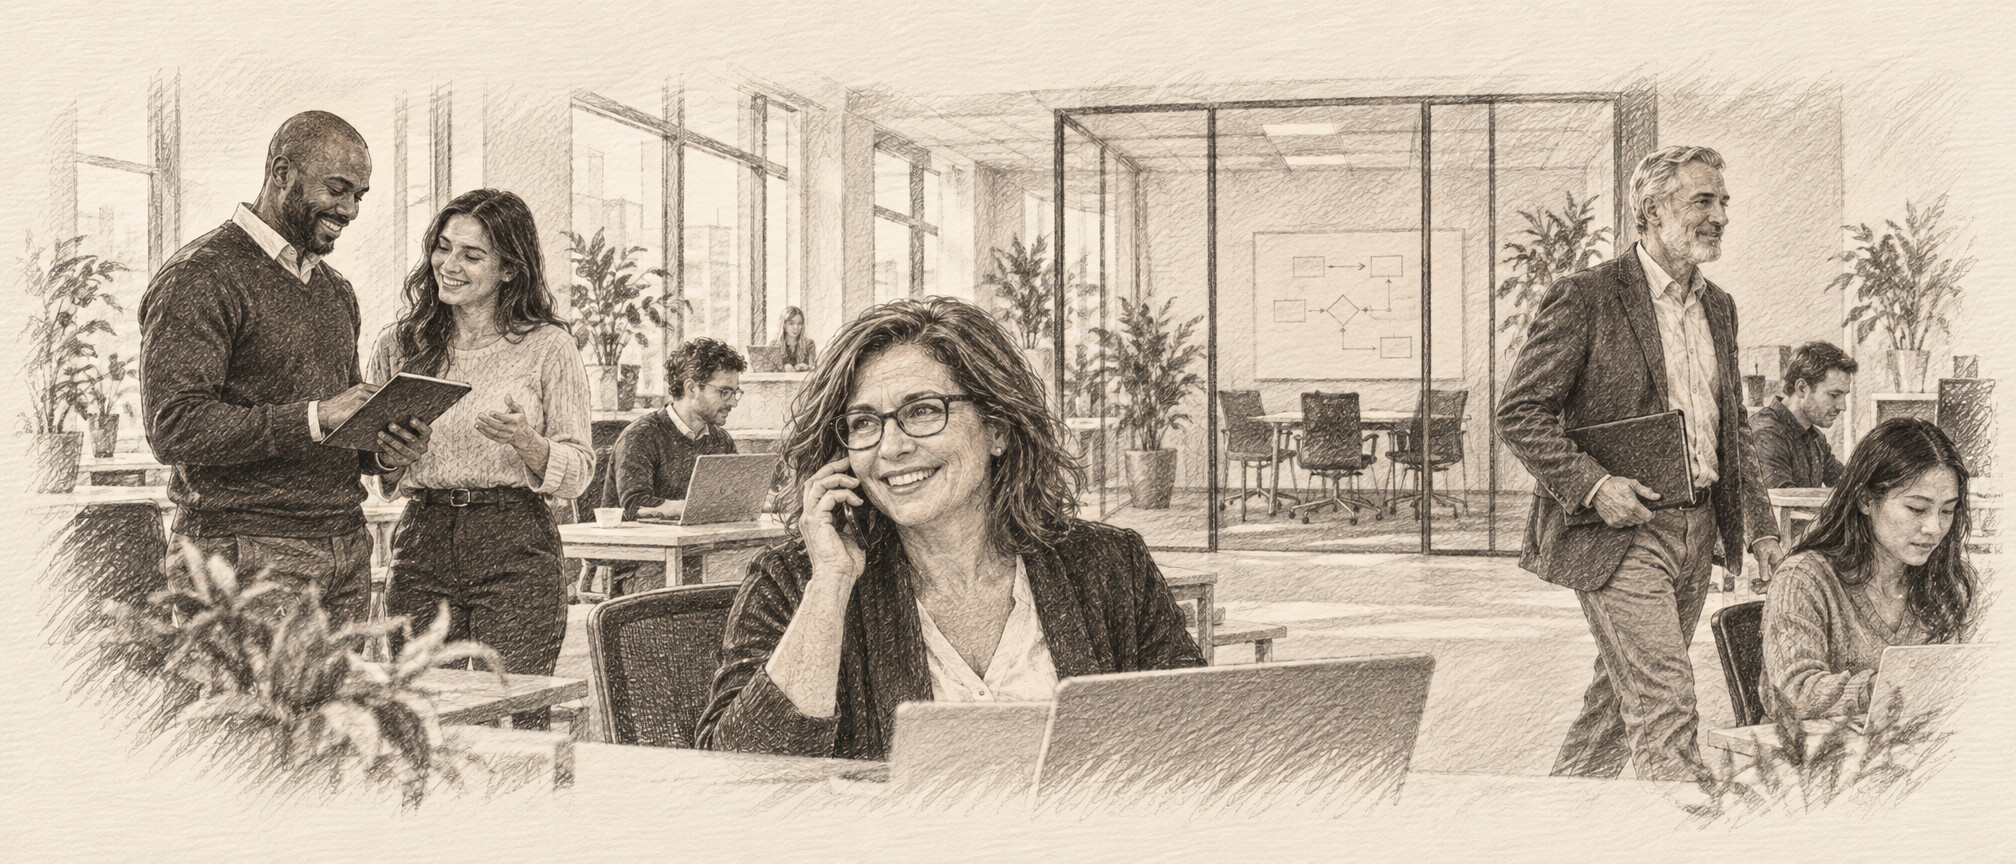
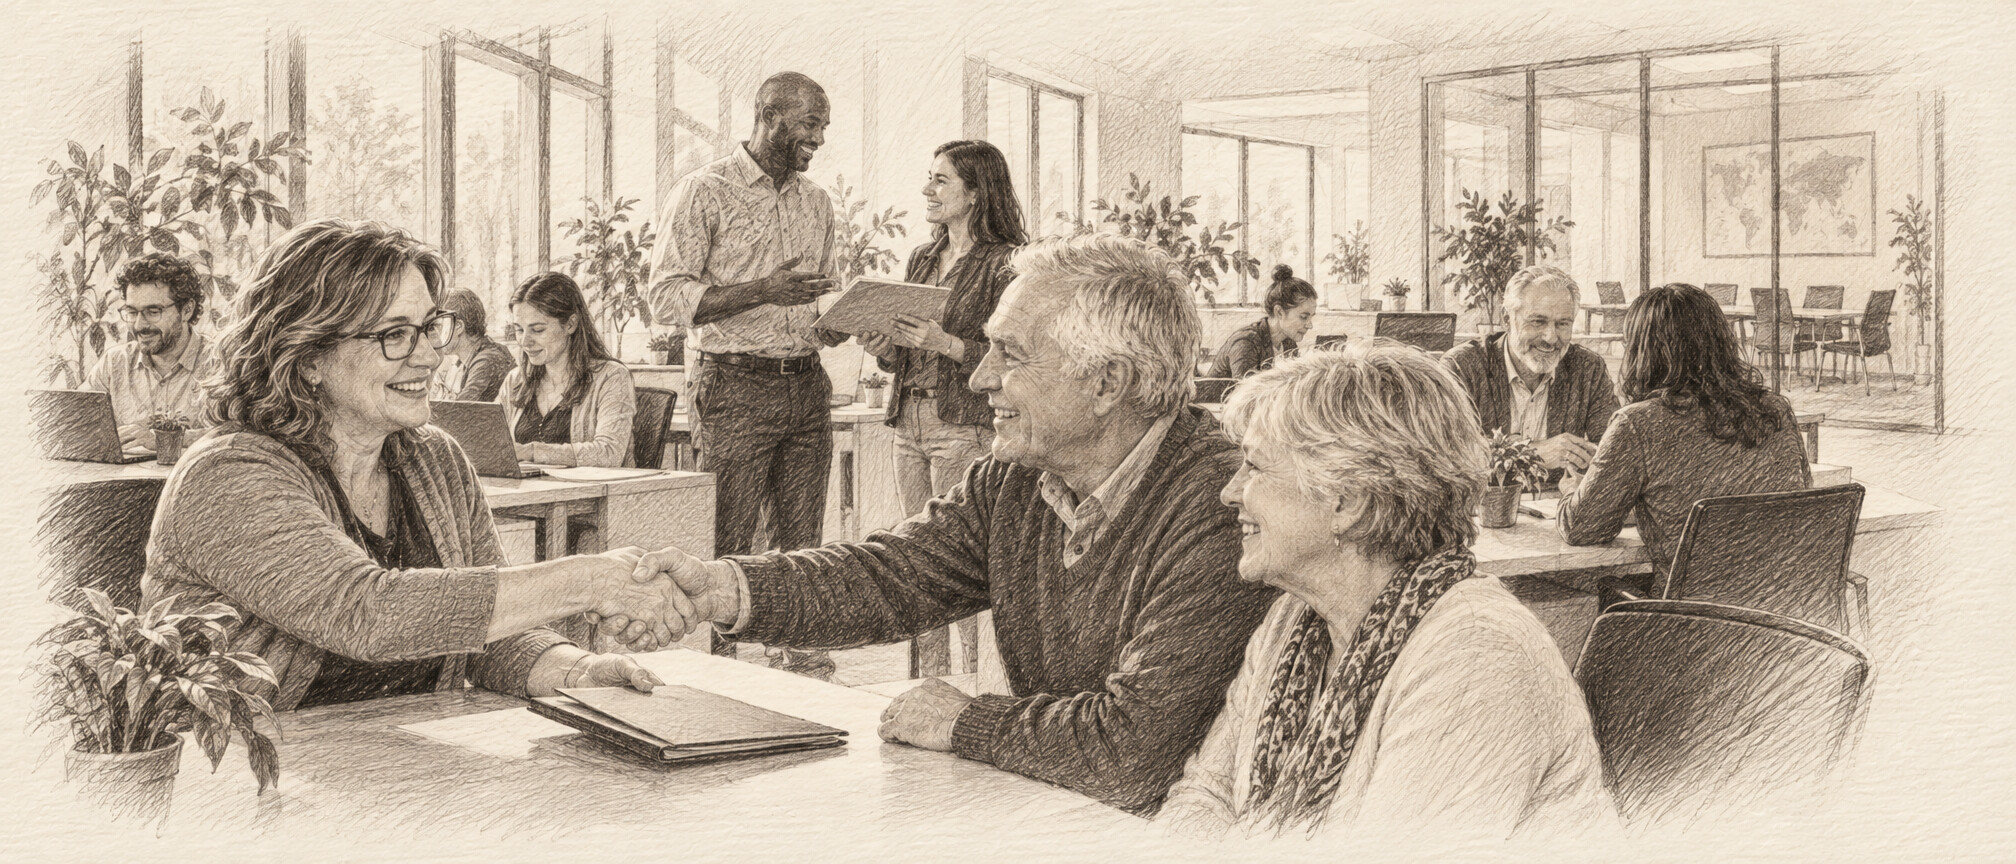
Make Scale the arrival: the customer receives what the organization exists to deliver
Rewrite Scale around the business's purpose, not rollout or technology, and point Prototype's question at full load. Redraw the scene facing the customer, open it past the text column, and ink the loop solid with the red node on the live stream. Document the rule.

diff --git a/DESIGN.md b/DESIGN.md
@@ -88,8 +88,9 @@ One value stream followed through the cycle in pencil scenes of the people
 doing the work: a small room naming the stream (See); a room arguing over the
 wall map, then four later sessions as it fills with notes (Declare); the clean
 new map alone on a sunlit wall (Refactor); a montage of building, revising,
-laughing at a failure, and watching it work (Prototype); an organization working
-calmly, its old meeting room empty behind it (Scale).
+laughing at a failure, and watching it work (Prototype); a customer receiving
+what the organization exists to deliver, the floor behind at ease and its old
+meeting room empty (Scale).
 
 - **Tone means automation.** In every drawn map a pale step is done by hand and
   a dark step runs on its own. The balance holds through Declare however much
@@ -97,6 +98,13 @@ calmly, its old meeting room empty behind it (Scale).
 - The founder appears only in the founder portrait, never in a consulting
   scene. The scenes show the client's people and teams at work; a recurring
   face would read as a one-person shop.
+- **Scale is arrival.** Every earlier scene is work about work, with a map in
+  it and people facing the map or each other. Scale is the first with no map
+  in view: people face the customer, and technology is small and far back. It
+  opens wider than the text column, carries the fewest words, and names no
+  technology. The loop answers: the dashed construction line is inked solid,
+  the prototype's red turning settles into grey, and the one red node marks
+  the stream itself, now live.
 - On wide screens the loop is the control. The next stage's balloon carries
   the red node; visited stages keep an ink ring. Each stage's text ends in the
   question that advances it.

diff --git a/PRODUCT.md b/PRODUCT.md
@@ -51,6 +51,12 @@ of the cycle (See, Declare, Refactor, Prototype, Scale) carries:
 2. **The move**: what the stage does, and what it earns.
 3. **The next question** their own reasoning asks, set as the way on.
 
+Scale is the payoff, and it is about the business, not the method or the
+technology: the stream carries its full load, the customer receives the
+outcome faster and right, and people spend their time on the work only people
+can do. A business exists to deliver its value; technology and process design
+are means, and at Scale they recede.
+
 The questions chain the stages into one argument. The last one becomes the
 conversation: _Start with one stream_. Never describe a stage flatly; each one
 must leave the reader wanting the next.
